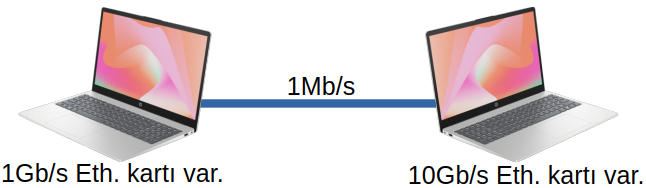
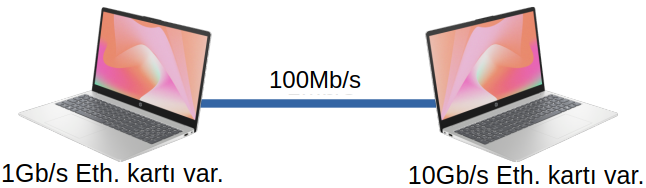
bant genişliği sorusu düzenleme

Changed region(s): [[0.4025, 0.3723, 0.5573, 0.5053]]

diff --git a/docs/04-TemelKavramlar.md b/docs/04-TemelKavramlar.md
@@ -57,10 +57,11 @@ Bir haberleşme sistemi, gönderici, alıcı ve iletim ortamından oluşur. İle
 !!! question "Örnek Soru"
     240 MB büyüklüğündeki bir MP3 dosyası, görseldeki sistemde 4 dakikada aktarılıyor.
 
-    1. Bu sistemin aktarım kapasitesini (bant genişliğini) bulunuz.
-    2. Aktarılan dosya, MP3 yerine MPG olsaydı ne olurdu?
+    1. Bu sistemin aktarım kapasitesi (bant genişliği) ne kadardır?
+    1. Dosya aktarım hızı b/s cinsinden ne olmuştur?
+    1. Aktarılan dosya, MP3 yerine MPG olsaydı ne olurdu?
 
-    ![alt text](images/B04-BantGenisligi-sistemde.png){width="400"}
+    ![Örnek](images/B04-BantGenisligi-sistemde.png){width="400"}
 
 ## Jitter
 Dilimize _seğirme, sapma_ şeklinde çevrilebilir. Giden veri paketlerinin gecikme sürelerinde farklılık olması durumu. Özellikle canlı anlık iletişimin sağlıksız olmasına sebep olabilir.
@@ -68,12 +69,12 @@ Dilimize _seğirme, sapma_ şeklinde çevrilebilir. Giden veri paketlerinin geci
 *Görsel kaynağı: https://sonary.com/content/jitter-what-it-is-and-how-to-deal-with-it/*
 
 ## QoS - hizmet önceliklendirme
+
 _Quality of Service_. Bant genişliğinin verimli kullanılması için bazı trafik verilerine öncelik vermek için kullanılır. Ambulans önceliği gibi düşünebilirsiniz. Belirli IP adreslerine ya da belirli uygulamalara öncelik verilebilir. Özellikle canlı anlık iletişim sağlayan telefon görüşme uygulamaları gibi durumları önceliklendirmek için kullanılır.
-![QoS](images/B04-QoS.png){width="500"}  
-*QoS. Görsel kaynağı: https://www.nwkings.com/qos-in-networking/*
+![QoS](images/B04-QoS.jpg){width="500"}  
+*QoS. Görsel kaynağı: https://www.linkedin.com/pulse/what-qos-saravind-rajan/*
 
-
-## Temel Bant ve Geniş Bant 
+## Temel Bant ve Geniş Bant
 
 - **Temel bant**(_Base Band_). İletim ortamında tek bir frekans bandı kullanılır. Böylece teorik olarak iletim ortamının tüm kapasitesi tek bir kanal için kullanılır. Ethernet'te temel bant kullanılır.
 - **Geniş Bant**  (_Broad band_). İletim ortamında birden fazla frekans bandı kullanılır. bulunur. Basit
@@ -87,6 +88,7 @@ hattından aynı anda ses verinin taşınması buna örnektir.
 *Geniş bant içindeki farklı verileri ayrıştırma*
 
 ## Paralel ve Seri İletişim
+
 Paralel iletişimde byte düzeyinde iletişim sağlanır. İki uç arasında en az 8 tane fiziksel iletim ortamı olmalıdır. Band genişliği teorik olarak 8 hat daha fazla olduğu düşünülebilir. Ancak hem maliyet hem protokol tercihi hem de kullanılan topoloji gibi etkenler bu konuda etkilidir.
 ![Paralel ve seri iletişim](<images/B04-Paralel_ve_Seri.png>)  
 *Görsel kaynağı: https://www.digikey.com/en/maker/tutorials/2023/what-is-serial-communication-and-how-does-it-compare-to-parallel*
@@ -95,12 +97,12 @@ Paralel iletişimde byte düzeyinde iletişim sağlanır. İki uç arasında en 
     Paralel iletişim daha hızlı olmasına rağmen neden günümüzde hala bazı yerlerde seri iletişim kullanılıyor? Gündelik hayatımızda bilgisayar kullanırken nerelerde seri iletişim kuruyoruz?
 
 ## Haberleşme Kanalı Modları
-1.  **Simplex Kanal**: Televizyon ve radyo gibi yayının tek taraflı olarak yapıldığı kanallardır.
-2.  **Half-dubleks Kanal**: Çıft yönlü iletişim vardır. Ancak aynı anda sadece bir taraf veri gönderebilir. **telsiz** gibi.
-3.  **Full-dupleks Kanal**: İki uç arasında iki tane simplex kanal vardır. Böylece aynı anda iki taraf veri gönderebilir ve alabilir. Örnek **telefon görüşmeleri**.
+
+1. **Simplex Kanal**: Televizyon ve radyo gibi yayının tek taraflı olarak yapıldığı kanallardır.
+2. **Half-dubleks Kanal**: Çift yönlü iletişim vardır. Ancak aynı anda sadece bir taraf veri gönderebilir. **telsiz** gibi.
+3. **Full-dupleks Kanal**: İki uç arasında iki tane simplex kanal vardır. Böylece aynı anda iki taraf veri gönderebilir ve alabilir. Örnek **telefon görüşmeleri**.
 
 Günümüzde tüm bilgisayar ağları **full-dupleks**’tir.
 ![Haberleşme Kanalı Modları](images/B04-Haberlesme_Modlari.jpg)  
 *Görsel kaynağı: https://www.blackbox.co.uk/gb-gb/page/25069/Resources/Technical-Resources/Black-Box-Explains/Fibre-Optic-Cable/Simplex-vs-duplex-fiber-patch-cable/*
-
 

diff --git a/docs/03-OSI.md b/docs/03-OSI.md
@@ -253,6 +253,15 @@ Bilgisayar ağları kapsamında **Servis** (hizmet) kavramı, ağ üzerinde beli
 - HTTP/Telnet vb. parola görüntüleme
 - DNS ve HTTP trafikleri arka arkaya
 
+!!! Ubuntu'da basit parolalı web sayfası yapma:
+    ```sh
+    sudo apt install python3-venv
+    python3 -m venv venv-sauth
+    source venv-sauth/bin/activate
+    pip install sauth
+    sauth abc 123
+    ```
+
 ## OSI modeli ve güvenlik
 
 ![OSI modeli ve güvenlik](images/B03-OSI_ve_Guvenlik.jpg)  
